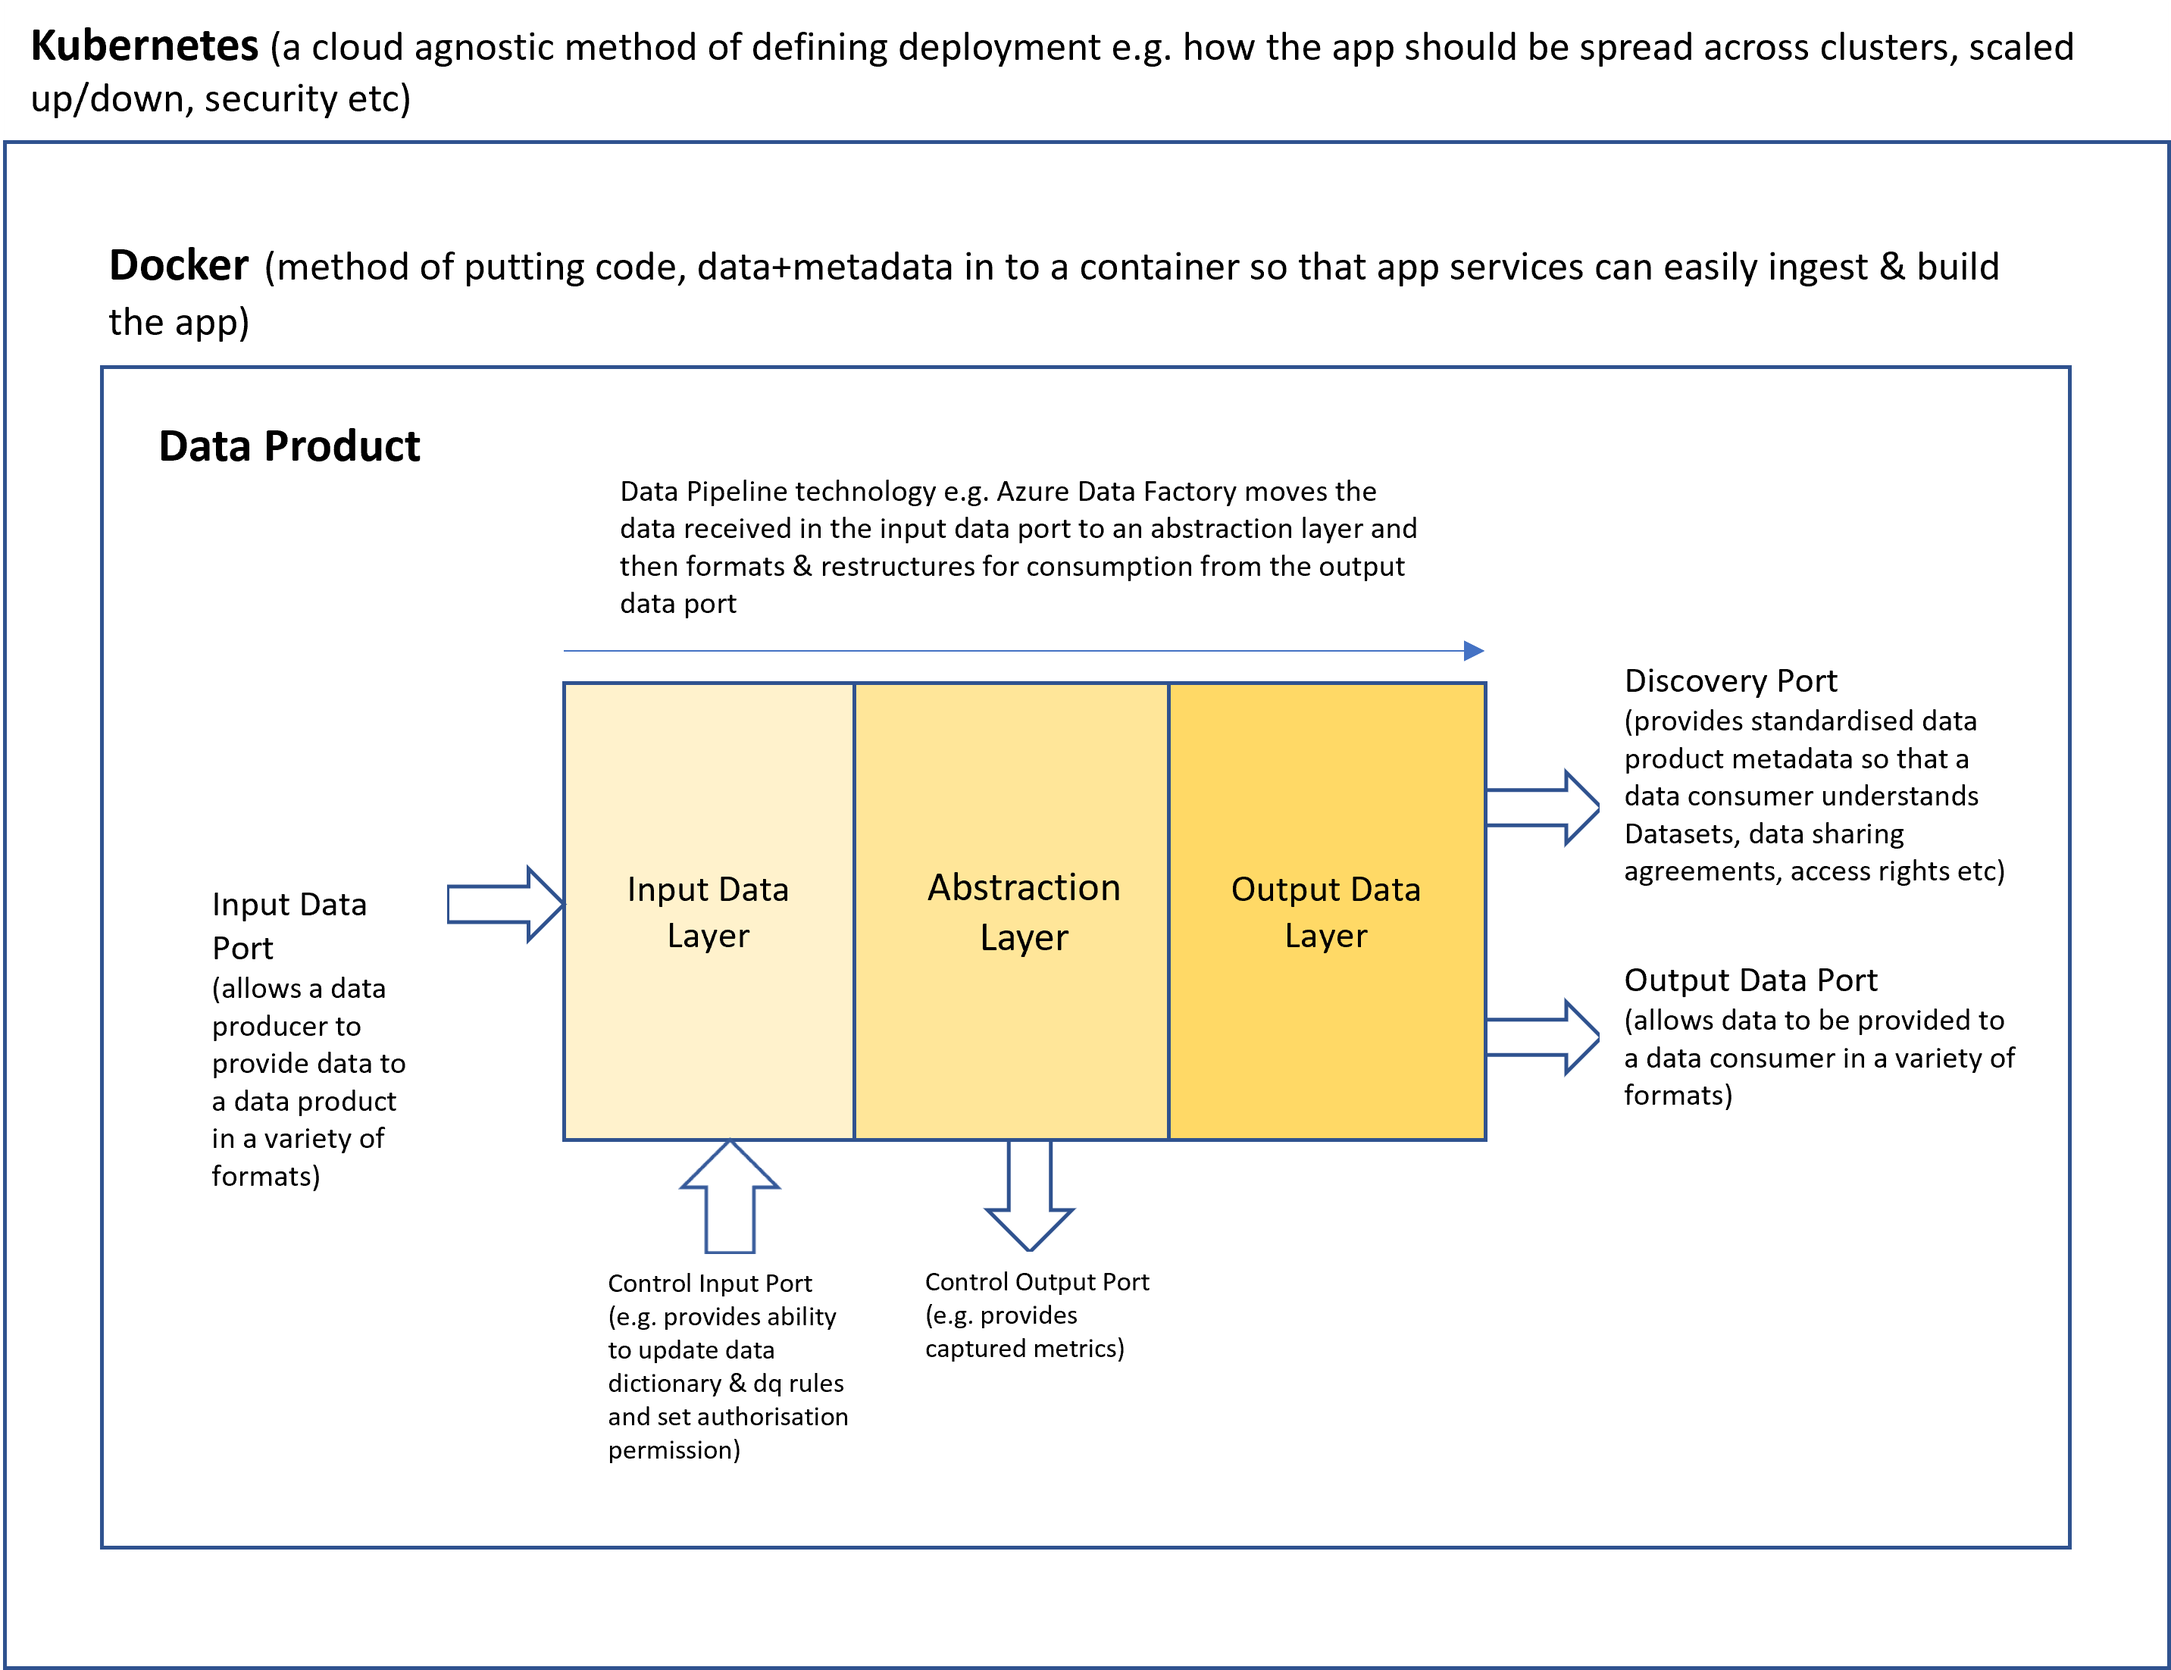
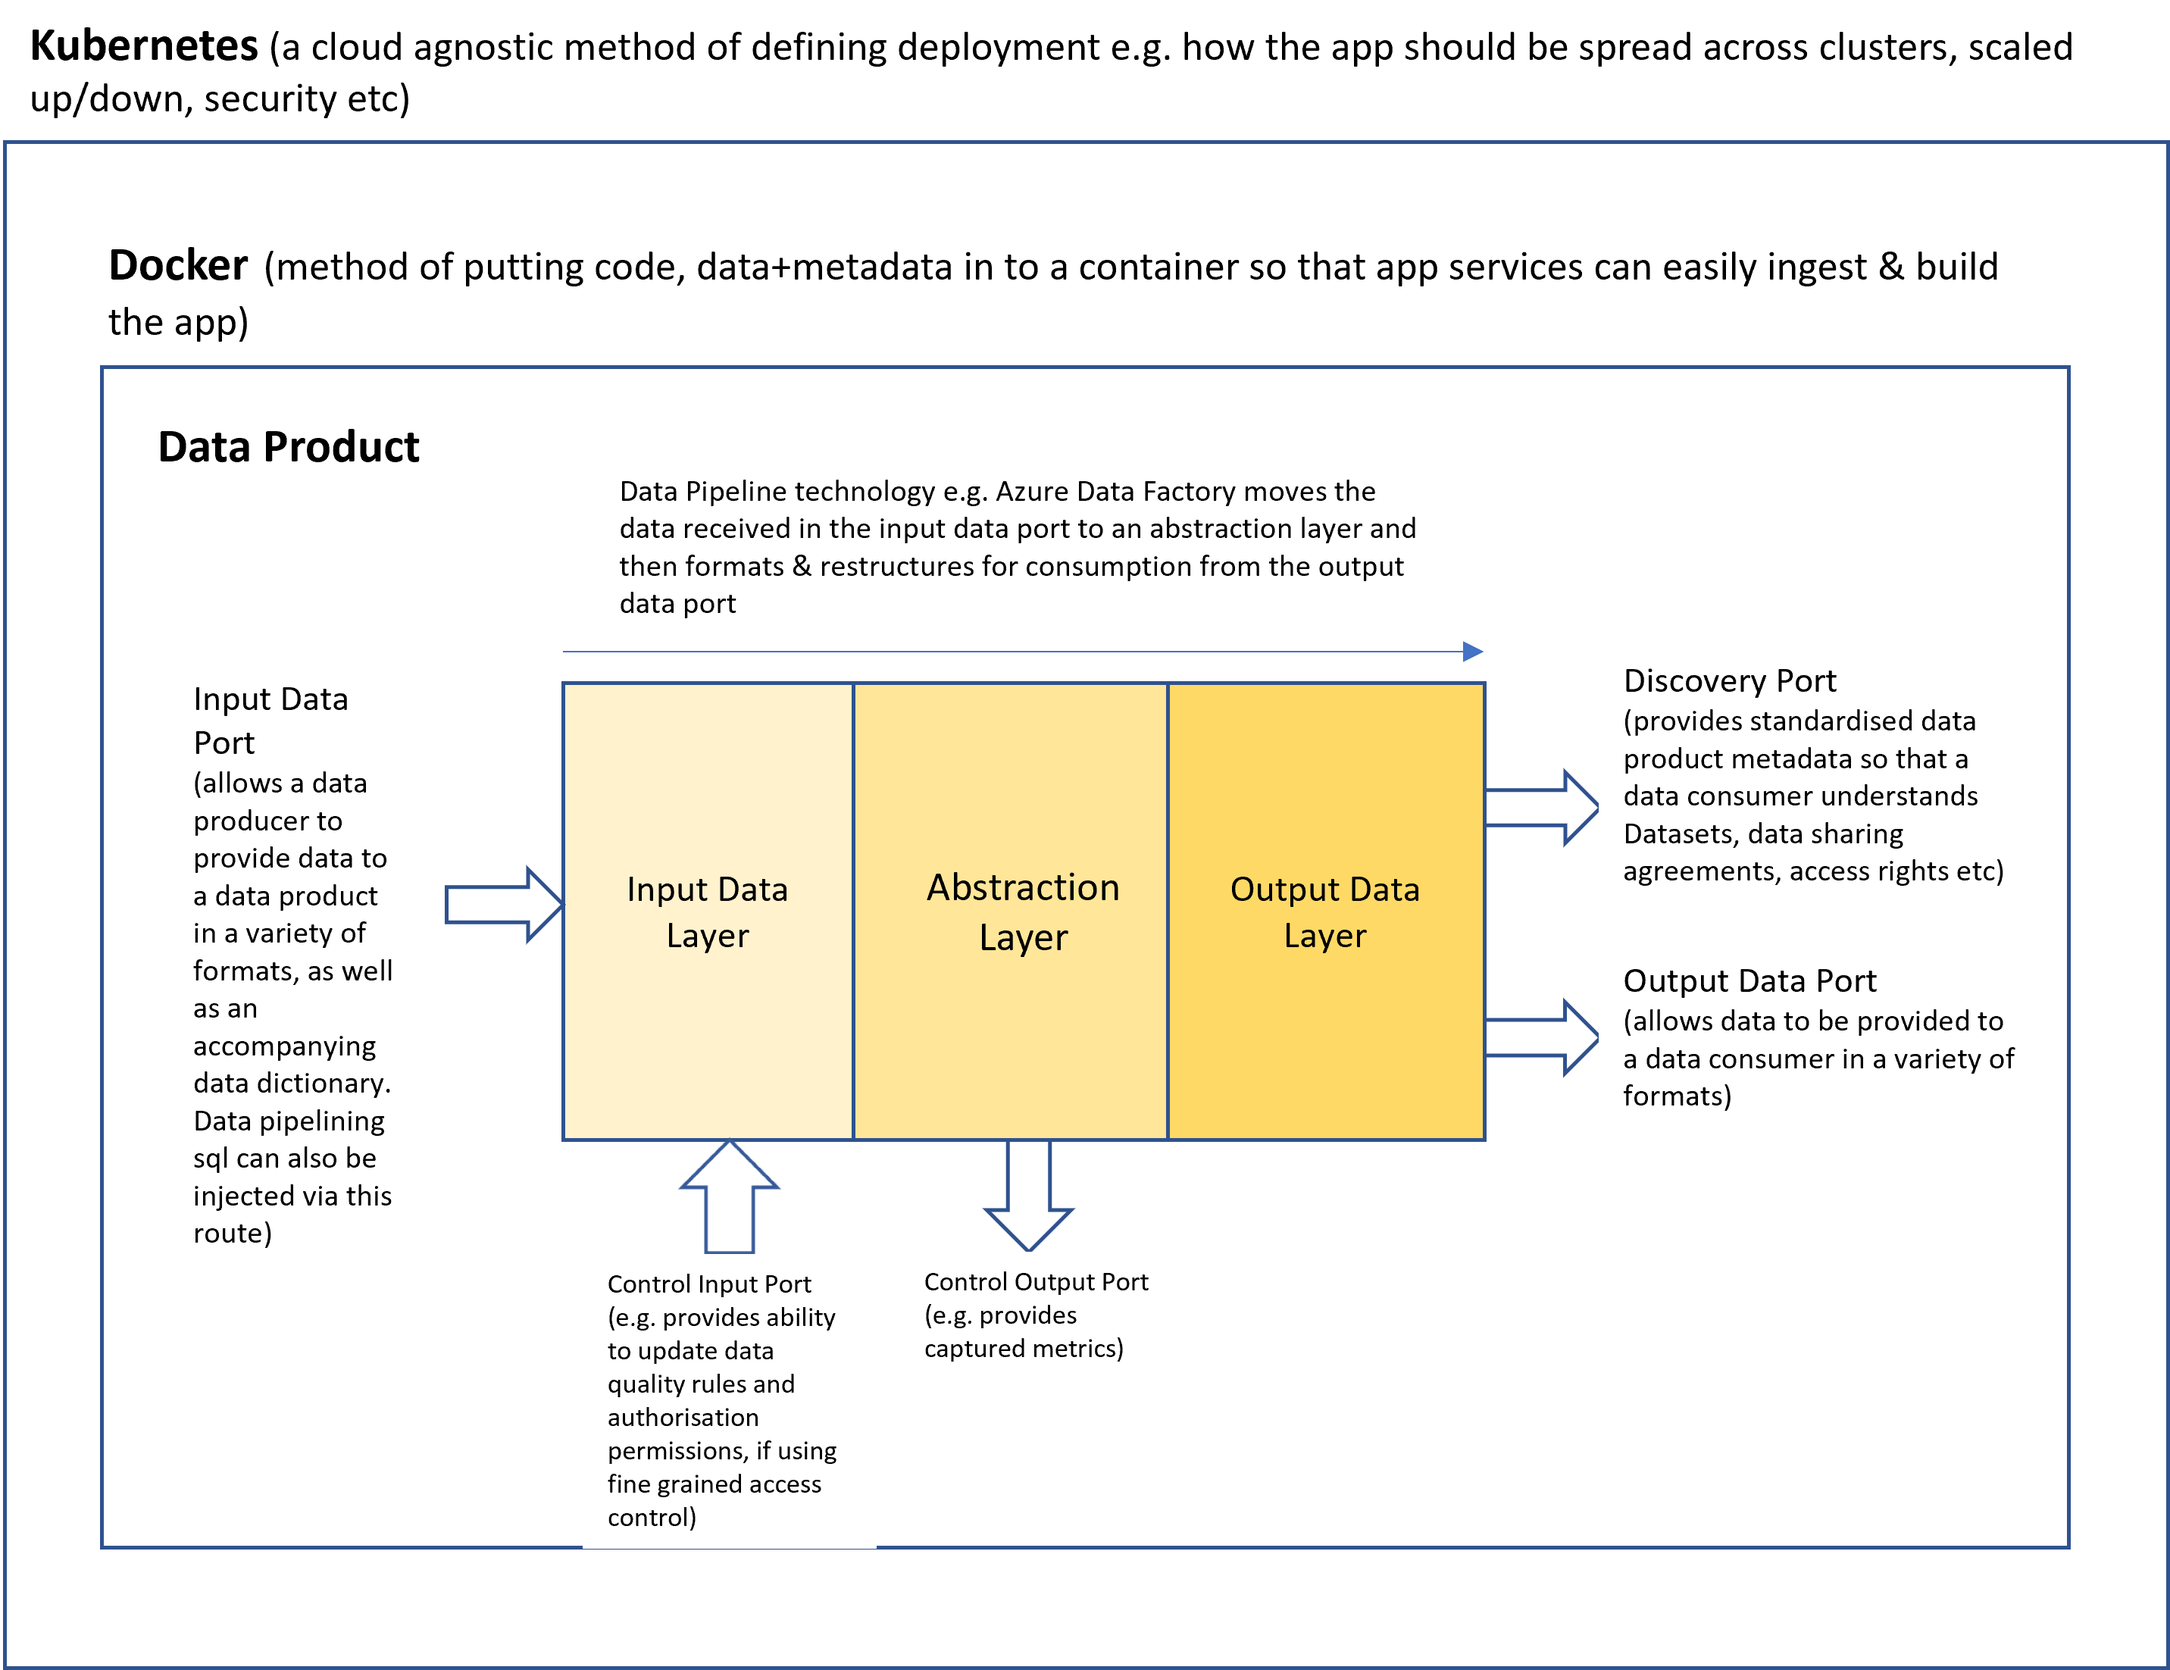
Updated dp-layer-architecture.png to show the data dictionary update occurring via the input data port and the control input port being used to update dq rules and fine grained authorisation permissions only

diff --git a/dp-performance.md b/dp-performance.md
@@ -1,0 +1,3 @@
+# Improving Performance
+
+Data Products created for operational purposes will typically transfer small data sets between systems. In order to improve performance, only those 
